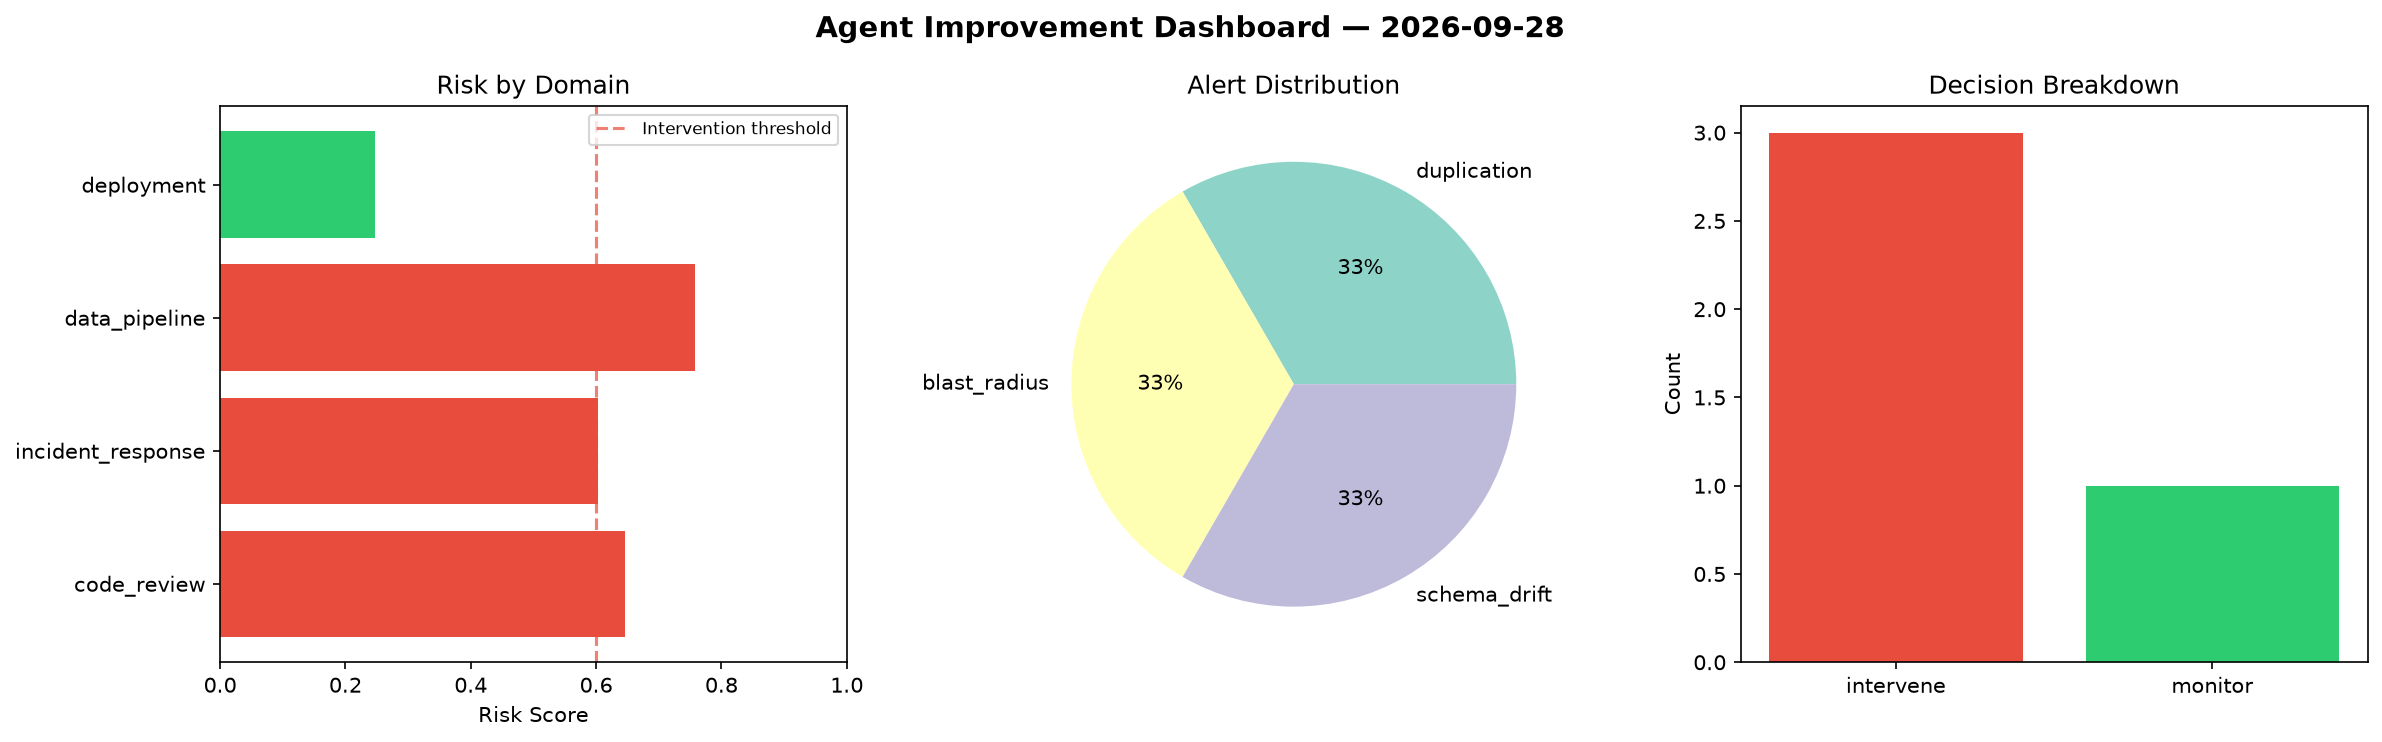
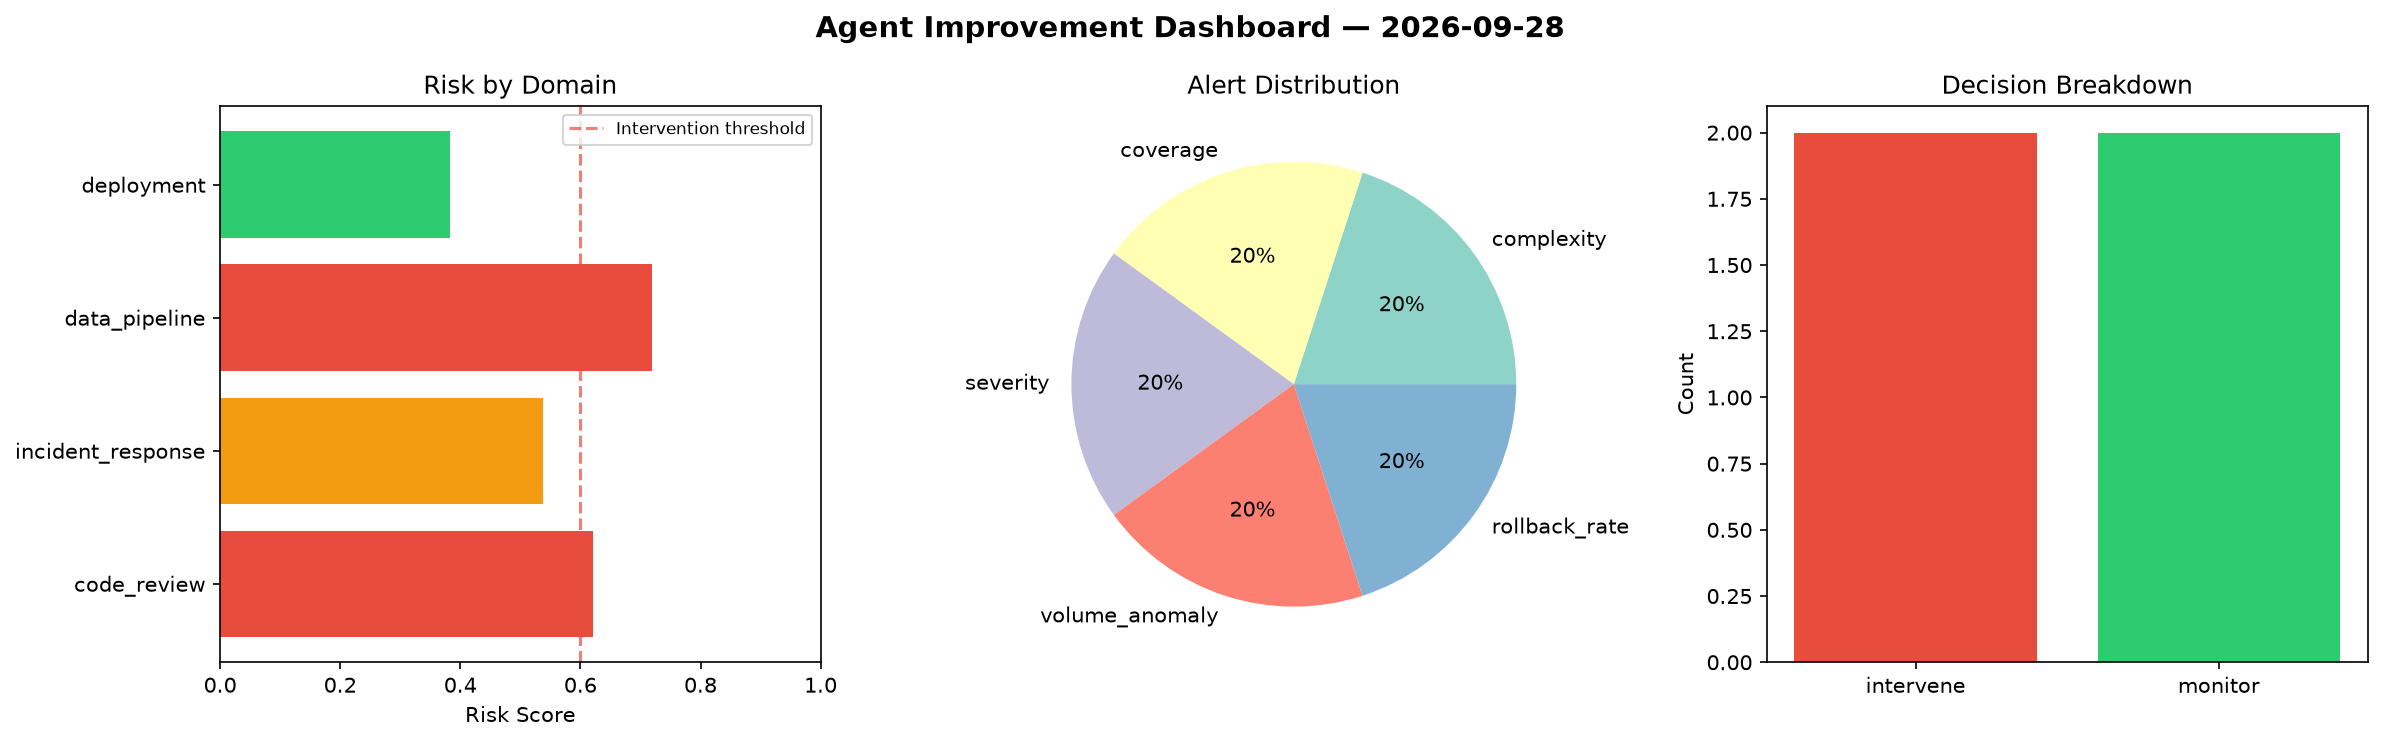
agent-improvement: daily cycle 2026-09-28T16:45

diff --git a/logs/2026-09-28.md b/logs/2026-09-28.md
@@ -1,6 +1,6 @@
 # Agent Improvement Report — 2026-09-28
 
-**Cycle ID:** `0e8bc712` | **Avg Risk:** 0.5636 | **Interventions:** 3/4
+**Cycle ID:** `50986293` | **Avg Risk:** 0.5648 | **Interventions:** 2/4
 
 ![Dashboard](2026-09-28_dashboard.png)
 
@@ -10,18 +10,18 @@
 
 | Domain | Risk Score | Decision | Alerts |
 |--------|-----------|----------|--------|
-| code_review | 0.6458 | intervene | duplication |
-| incident_response | 0.6032 | intervene | blast_radius |
-| data_pipeline | 0.7578 | intervene | schema_drift |
-| deployment | 0.2476 | monitor | none |
+| code_review | 0.6208 | intervene | complexity, coverage |
+| incident_response | 0.5377 | monitor | severity |
+| data_pipeline | 0.7188 | intervene | volume_anomaly |
+| deployment | 0.3821 | monitor | rollback_rate |
 
 ## Delta vs Yesterday
 
 | Domain | Today | Yesterday | Change |
 |--------|-------|-----------|--------|
-| code_review | 0.6458 | 0.6307 | 📈 2.4% |
-| incident_response | 0.6032 | 0.4845 | 📈 24.5% |
-| data_pipeline | 0.7578 | 0.2993 | 📈 153.2% |
-| deployment | 0.2476 | 0.6945 | 📉 -64.3% |
+| code_review | 0.6208 | 0.6307 | 📉 -1.6% |
+| incident_response | 0.5377 | 0.4845 | 📈 11.0% |
+| data_pipeline | 0.7188 | 0.2993 | 📈 140.2% |
+| deployment | 0.3821 | 0.6945 | 📉 -45.0% |
 
 **Refinement:** `{'adjustment': 'maintain', 'trend': 'improving', 'window': 4}`
